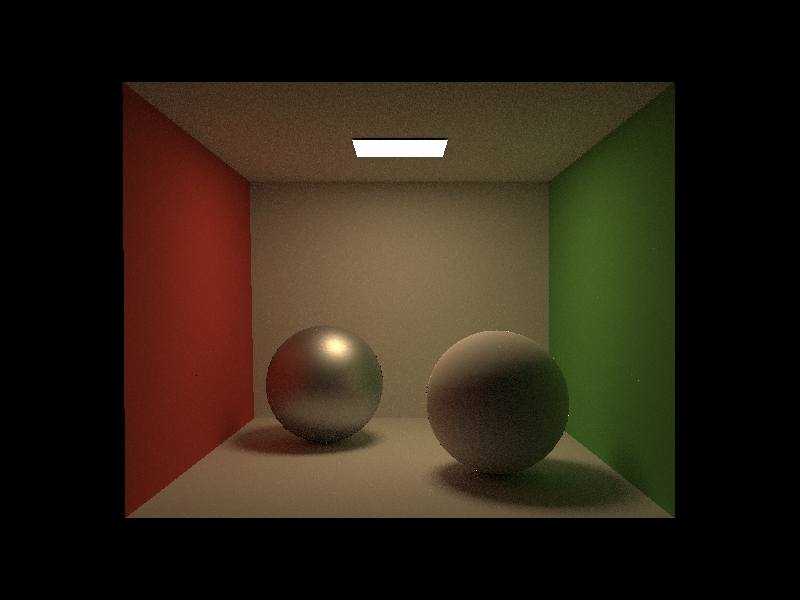
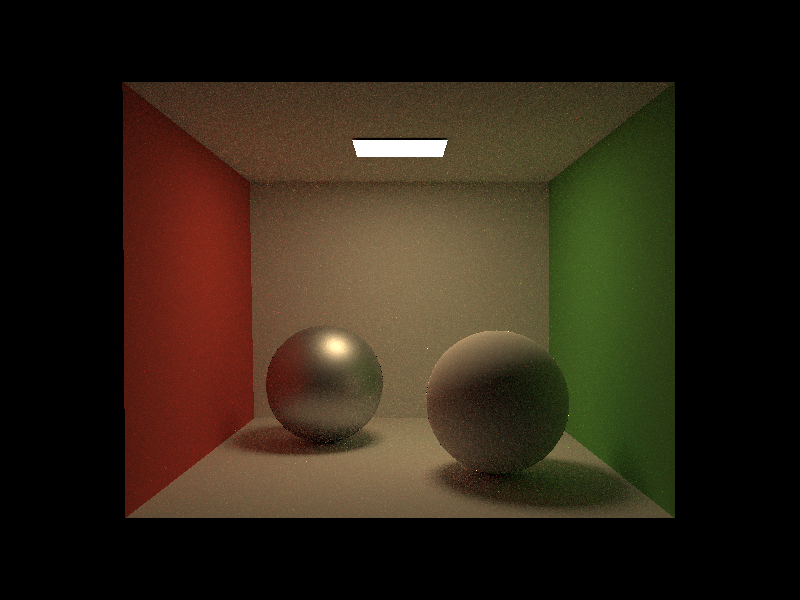
A series of bug fixes and optimizations.

Changed region(s): [[0.3438, 0.69, 0.4375, 0.75], [0.5625, 0.78, 0.625, 0.81], [0.3125, 0.27, 0.3438, 0.33]]

diff --git a/src/pathtracer.cpp b/src/pathtracer.cpp
@@ -144,7 +144,7 @@ e8::unidirect_pathtracer::sample_indirect_illum(e8util::rng& rng,
                                                 unsigned multi_light_samps,
                                                 unsigned multi_indirect_samps) const
 {
-        static const int mutate_depth = 3;
+        static const int mutate_depth = 2;
         float p_survive = 0.5f;
         if (depth >= mutate_depth) {
                 if (rng.draw() >= p_survive)
@@ -176,7 +176,7 @@ e8::unidirect_pathtracer::sample_indirect_illum(e8util::rng& rng,
                 }
         }
 
-        return direct + multi_indirect/multi_indirect_samps/p_survive;
+        return (direct + multi_indirect/multi_indirect_samps)/p_survive;
 }
 
 std::vector<e8util::vec3>
@@ -211,50 +211,50 @@ e8::bidirect_pathtracer::join_with_light_paths(e8util::rng& rng,
                                                e8util::vec3 const& o,
                                                e8::intersect_info const& poi,
                                                if_scene const* scene,
-                                               unsigned prev_depth) const
+                                               unsigned cam_path_len) const
 {
-        float p_survive = 0.5f;
-        if (rng.draw() >= p_survive) {
-                // special case, stop.
-                return prev_depth == 0 ? sample_direct_illum(rng, o, poi, scene, 1)/(1 - p_survive) : 0.5f*sample_direct_illum(rng, o, poi, scene, 1)/(1 - p_survive);
-        } else {
-                // sample light.
-                float light_pdf, source_pdf;
-                if_light const* light = scene->sample_light(rng, light_pdf);
-                e8util::vec3 p, n, w;
-                light->sample(rng, source_pdf, p, n, w);
-                e8util::ray light_path(p, w);
-                e8::intersect_info const& light_info = scene->intersect(light_path);
-                if (!light_info.valid)
-                        return 0.0f;
+        e8util::vec3 const& p1_direct = sample_direct_illum(rng, o, poi, scene, 1);
 
-                // construct light path.
-                e8util::vec3 const& l = light_info.vertex - p;
-                e8util::vec3 const& illum = light->eval(l, n)/(light_pdf*source_pdf);
+        // sample light.
+        float light_pdf, source_pdf;
+        if_light const* light = scene->sample_light(rng, light_pdf);
+        e8util::vec3 p, n, w;
+        light->sample(rng, source_pdf, p, n, w);
+        e8util::ray light_path(p, w);
+        e8::intersect_info const& light_info = scene->intersect(light_path);
+        if (!light_info.valid)
+                return 0.0f;
 
-                e8::intersect_info terminate = light_info;
-                e8util::vec3 tray = -w;
-                e8util::vec3 const& light_illum = illum;
+        // construct light path.
+        e8util::vec3 const& l = light_info.vertex - p;
+        e8util::vec3 const& illum = light->emission(w, n)/(light_pdf*source_pdf);
 
-                // evaluate the area integral.
-                e8util::vec3 join_path = poi.vertex - terminate.vertex;
-                float distance = join_path.norm();
-                join_path = join_path/distance;
-                e8util::ray join_ray(terminate.vertex, join_path);
-                float cos_w2 = terminate.normal.inner(tray);
-                float cos_wo = terminate.normal.inner(join_path);
-                float cos_wi = poi.normal.inner(-join_path);
-                float t;
-                if (cos_wo >= 0.0f &&
-                                cos_wi >= 0.0f &&
-                                cos_w2 >= 0.0f &&
-                                !scene->has_intersect(join_ray, 1e-4f, distance - 1e-3f, t)) {
-                        e8util::vec3 f2 = light_illum*terminate.mat->eval(terminate.normal, join_path, tray)*cos_w2;
-                        e8util::vec3 f1 = f2*cos_wo/(distance*distance)*poi.mat->eval(poi.normal, o, -join_path)*cos_wi;
-                        return 0.5f*f1/p_survive;
-                } else
-                        return 0.0f;
+        e8::intersect_info terminate = light_info;
+        e8util::vec3 tray = -w;
+        e8util::vec3 const& light_illum = illum;
+
+        // evaluate the area integral.
+        e8util::vec3 join_path = poi.vertex - terminate.vertex;
+        float distance = join_path.norm();
+        join_path = join_path/distance;
+        e8util::ray join_ray(terminate.vertex, join_path);
+        float cos_w2 = terminate.normal.inner(tray);
+        float cos_wo = terminate.normal.inner(join_path);
+        float cos_wi = poi.normal.inner(-join_path);
+        float t;
+        e8util::vec3 p2_direct;
+        if (cos_wo >= 0.0f &&
+                        cos_wi >= 0.0f &&
+                        cos_w2 >= 0.0f &&
+                        !scene->has_intersect(join_ray, 1e-4f, distance - 1e-3f, t)) {
+                e8util::vec3 f2 = light_illum*terminate.mat->eval(terminate.normal, join_path, tray)*cos_w2;
+                p2_direct = f2*cos_wo/(distance*distance)*poi.mat->eval(poi.normal, o, -join_path)*cos_wi;
+                if (cam_path_len == 0)
+                        return p1_direct + 0.5f*p2_direct;
+                else
+                        return 0.5f*(p1_direct + p2_direct);
         }
+        return p1_direct;
 }
 
 e8util::vec3
@@ -264,7 +264,7 @@ e8::bidirect_pathtracer::sample_indirect_illum(e8util::rng& rng,
                                                 if_scene const* scene,
                                                 unsigned depth) const
 {
-        static const unsigned mutate_depth = 2;
+        static const unsigned mutate_depth = 1;
         float p_survive = 0.5f;
         if (depth >= mutate_depth) {
                 if (rng.draw() >= p_survive)
@@ -278,16 +278,16 @@ e8::bidirect_pathtracer::sample_indirect_illum(e8util::rng& rng,
         float mat_pdf;
         e8util::vec3 const& i = info.mat->sample(rng, info.normal, o, mat_pdf);
         e8::intersect_info const& indirect_info = scene->intersect(e8util::ray(info.vertex, i));
+        e8util::vec3 r;
         if (indirect_info.valid) {
                 e8util::vec3 const& indirect = sample_indirect_illum(rng, -i, indirect_info, scene, depth + 1);
                 e8util::vec3 const& brdf = info.mat->eval(info.normal, o, i);
                 float cos_w = info.normal.inner(i);
                 if (cos_w < 0.0f)
                         return 0.0f;
-                e8util::vec3 r = indirect*brdf*cos_w/mat_pdf/p_survive;
-                return bidirect + r;
-        } else
-                return bidirect;
+                r = indirect*brdf*cos_w/mat_pdf;
+        }
+        return (bidirect + r)/p_survive;
 }
 
 std::vector<e8util::vec3>

diff --git a/src/pathtracer.h b/src/pathtracer.h
@@ -98,7 +98,7 @@ protected:
                                                               e8util::vec3 const& o,
                                                               e8::intersect_info const& info,
                                                               if_scene const* scene,
-                                                              unsigned prev_depth) const;
+                                                              unsigned cam_path_len) const;
         e8util::vec3                    sample_indirect_illum(e8util::rng& rng,
                                                               e8util::vec3 const& o,
                                                               e8::intersect_info const& info,

diff --git a/README.md b/README.md
@@ -1,9 +1,13 @@
 # e8yescg
 A simple 3D renderer for visualizing other simulation projects.
+![Alt text](gallery/image.png?raw=true "Unidirectional tracer (direct lighting)")
+
+## Ray-cast tracer
+### 1 path-space integration
+![Alt text](gallery/image1.png?raw=true "Ray-cast tracer")
 
 ## Unidirectional tracer 
 ### with k light samples
-![Alt text](gallery/image.png?raw=true "Unidirectional tracer (direct lighting)")
 ![Alt text](gallery/image2.png?raw=true "Unidirectional tracer (direct lighting)")
 
 ## Bidirectional tracer
